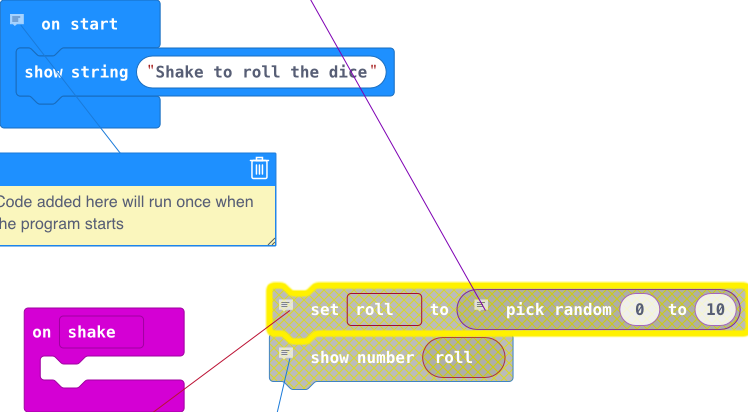
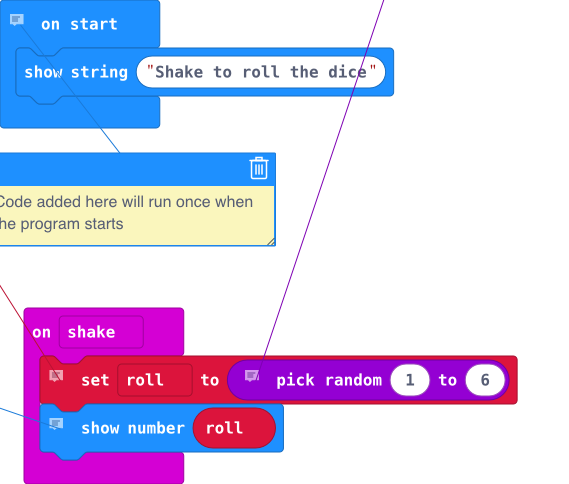
Update main.blocks, main.ts

diff --git a/main.ts b/main.ts
@@ -1,5 +1,10 @@
 input.onGesture(Gesture.Shake, function () {
-	
+    // A variable is a place where your program can store a value. We need a place to store the result of the roll, so I created a variable called roll.
+    //  I have the program generate a random number between 1 and 6, and I assign that value to the roll variable
+    roll = randint(1, 6)
+    // Why is this code grayed out?  It isn't connected to anything that will trigger it to execute. In order to execute, a block has to be inside of an event such as "on start" or "on Shake" or "forever".
+    basic.showNumber(roll)
 })
 // Code added here will run once when the program starts
+let roll = 0
 basic.showString("Shake to roll the dice")
